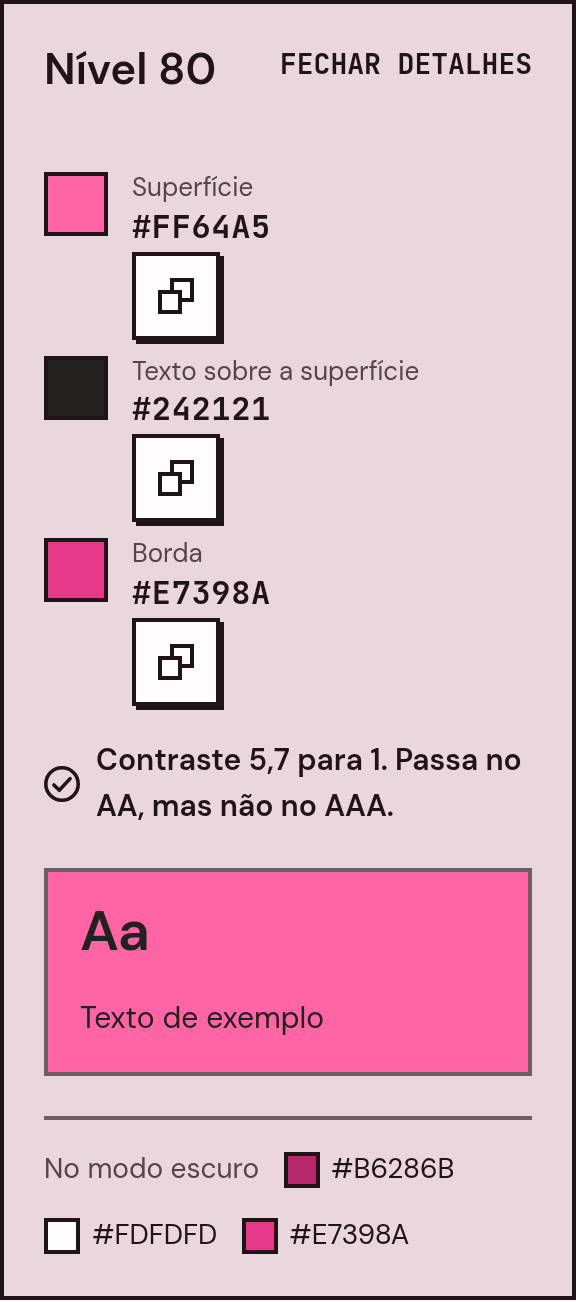
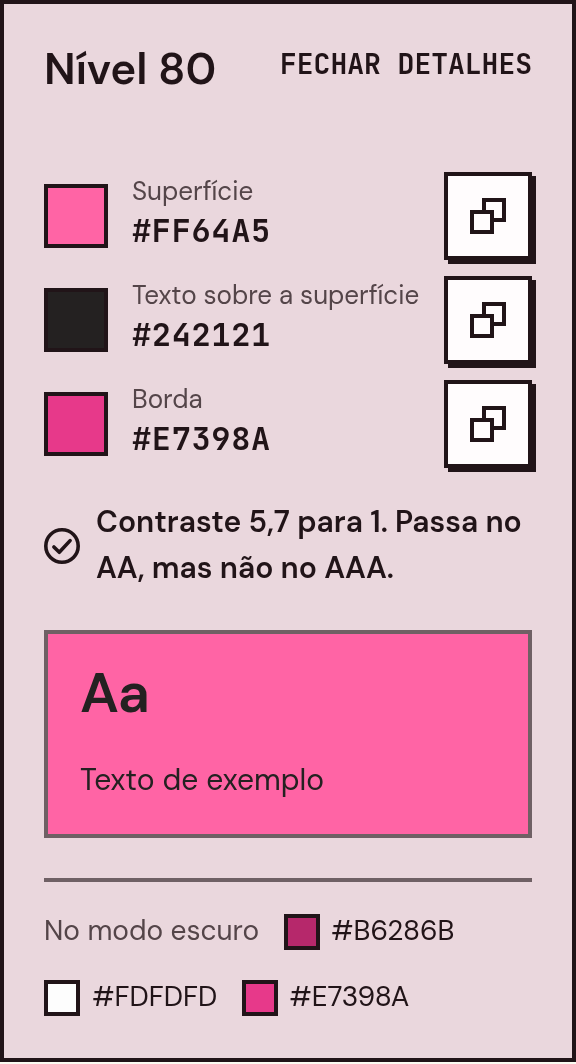
fix: botão de copiar na borda direita do painel no celular

diff --git a/src/styles/tools/color-decomposer.css b/src/styles/tools/color-decomposer.css
@@ -373,11 +373,9 @@
   .cd .detail__head .btn--quiet { grid-column: 2; }
 }
 
-/* 320 px não comporta amostra, texto e botão lado a lado: só aí o botão desce para baixo do código */
-@media (max-width: 21.25rem) {
-  .cd .values { grid-template-columns: 2rem minmax(0, 1fr); }
-  .cd .value { display: grid; grid-template-columns: subgrid; grid-column: 1 / -1; }
-  .cd .value .btn--icon { grid-column: 2; justify-self: start; }
+/* Celular (até 767 px): o botão de copiar vai para a borda direita do painel */
+@media (max-width: 47.9375rem) {
+  .cd .values { grid-template-columns: 2rem minmax(0, 1fr) var(--control); justify-content: stretch; max-width: none; }
 }
 
 @media (prefers-reduced-motion: reduce) {

diff --git a/docs/design-notes.md b/docs/design-notes.md
@@ -388,7 +388,7 @@ Fase 1 da integração: a interface de `lucas-per/color-decomposer@v0.2.0` (`app
 - **Rodapé:** o `divider-trail` (7px, `surface-bg-tertiary-strong`) passou das páginas (home e cases) para `Footer.astro` e `FooterMobile.astro`, e vale em todas as páginas, inclusive a da ferramenta. Home e cases ficam idênticas.
 - **Botões ghost (`.btn--quiet`):** sem padding lateral nem borda, para o texto alinhar com a borda do conteúdo; altura mínima de 44px com padding vertical de 8px. Sem fundo e sem sublinhado fixo (o app sublinhava sempre). Hover muda a cor (de `--fg` para `--muted`, só em `@media (hover: hover)`); pressed e aberto (`aria-expanded`/`aria-pressed`) sublinham; foco com contorno de 2px e `outline-offset` de 2px. Mesmo padrão do `HeaderLink`. O botão de copiar do código da Ajuda deixou de ter 36px de altura.
 - **"Fechar detalhes":** no canto superior direito, também no celular (o app empilhava abaixo). A ordem no DOM não mudou. Desde 2026-10-17 alinhado pelo topo ao título (o texto no topo do alvo de 44px, sem margem negativa), e a linha do título passou a ter 44px de altura.
-- **Painel de detalhes, copiar (2026-10-17):** o botão "Copiar" virou botão de ícone de 44x44px, ao lado do código (colunas comuns às três linhas: amostra, texto, botão; `.values` em grade). Só em 320px (≤ 340px) o botão desce para baixo do código, porque amostra, texto e botão não cabem lado a lado. Ícones novos, no estilo dos do site (24x24, cantos retos, `currentColor`): copiar (dois quadrados) e confirmação; o nome acessível segue `Copiar superfície #FF64A5` e o aviso falado `Copiado: #FF64A5` (`role="status"`, no `#live`); por 1,5s o ícone vira o de confirmação. Hover só em `@media (hover: hover)`. O botão de copiar dos tons da faixa (`.swatch__copy`) e o "Copiar" do código da Ajuda continuam como eram.
+- **Painel de detalhes, copiar (2026-10-17):** o botão "Copiar" virou botão de ícone de 44x44px, ao lado do código (colunas comuns às três linhas: amostra, texto, botão; `.values` em grade). No celular (até 767px) o botão vai para a borda direita do painel (em 320px o rótulo "Texto sobre a superfície" quebra em duas linhas). Ícones novos, no estilo dos do site (24x24, cantos retos, `currentColor`): copiar (dois quadrados) e confirmação; o nome acessível segue `Copiar superfície #FF64A5` e o aviso falado `Copiado: #FF64A5` (`role="status"`, no `#live`); por 1,5s o ícone vira o de confirmação. Hover só em `@media (hover: hover)`. O botão de copiar dos tons da faixa (`.swatch__copy`) e o "Copiar" do código da Ajuda continuam como eram.
 
 **Comportamento da ferramenta (2026-10-17), divergências do app v0.2.0:**
 - **Intensidade:** o número ao lado do rótulo é o valor real. Se o valor pedido passa do máximo da cor, o controle só encaixa no real ao soltar (evento `change`), não durante o arraste; o aviso continua depois do encaixe, até a próxima mudança, num `role="status"`. No teclado cada seta dispara `input` e `change`: acima do máximo o controle volta ao máximo a cada passo.
